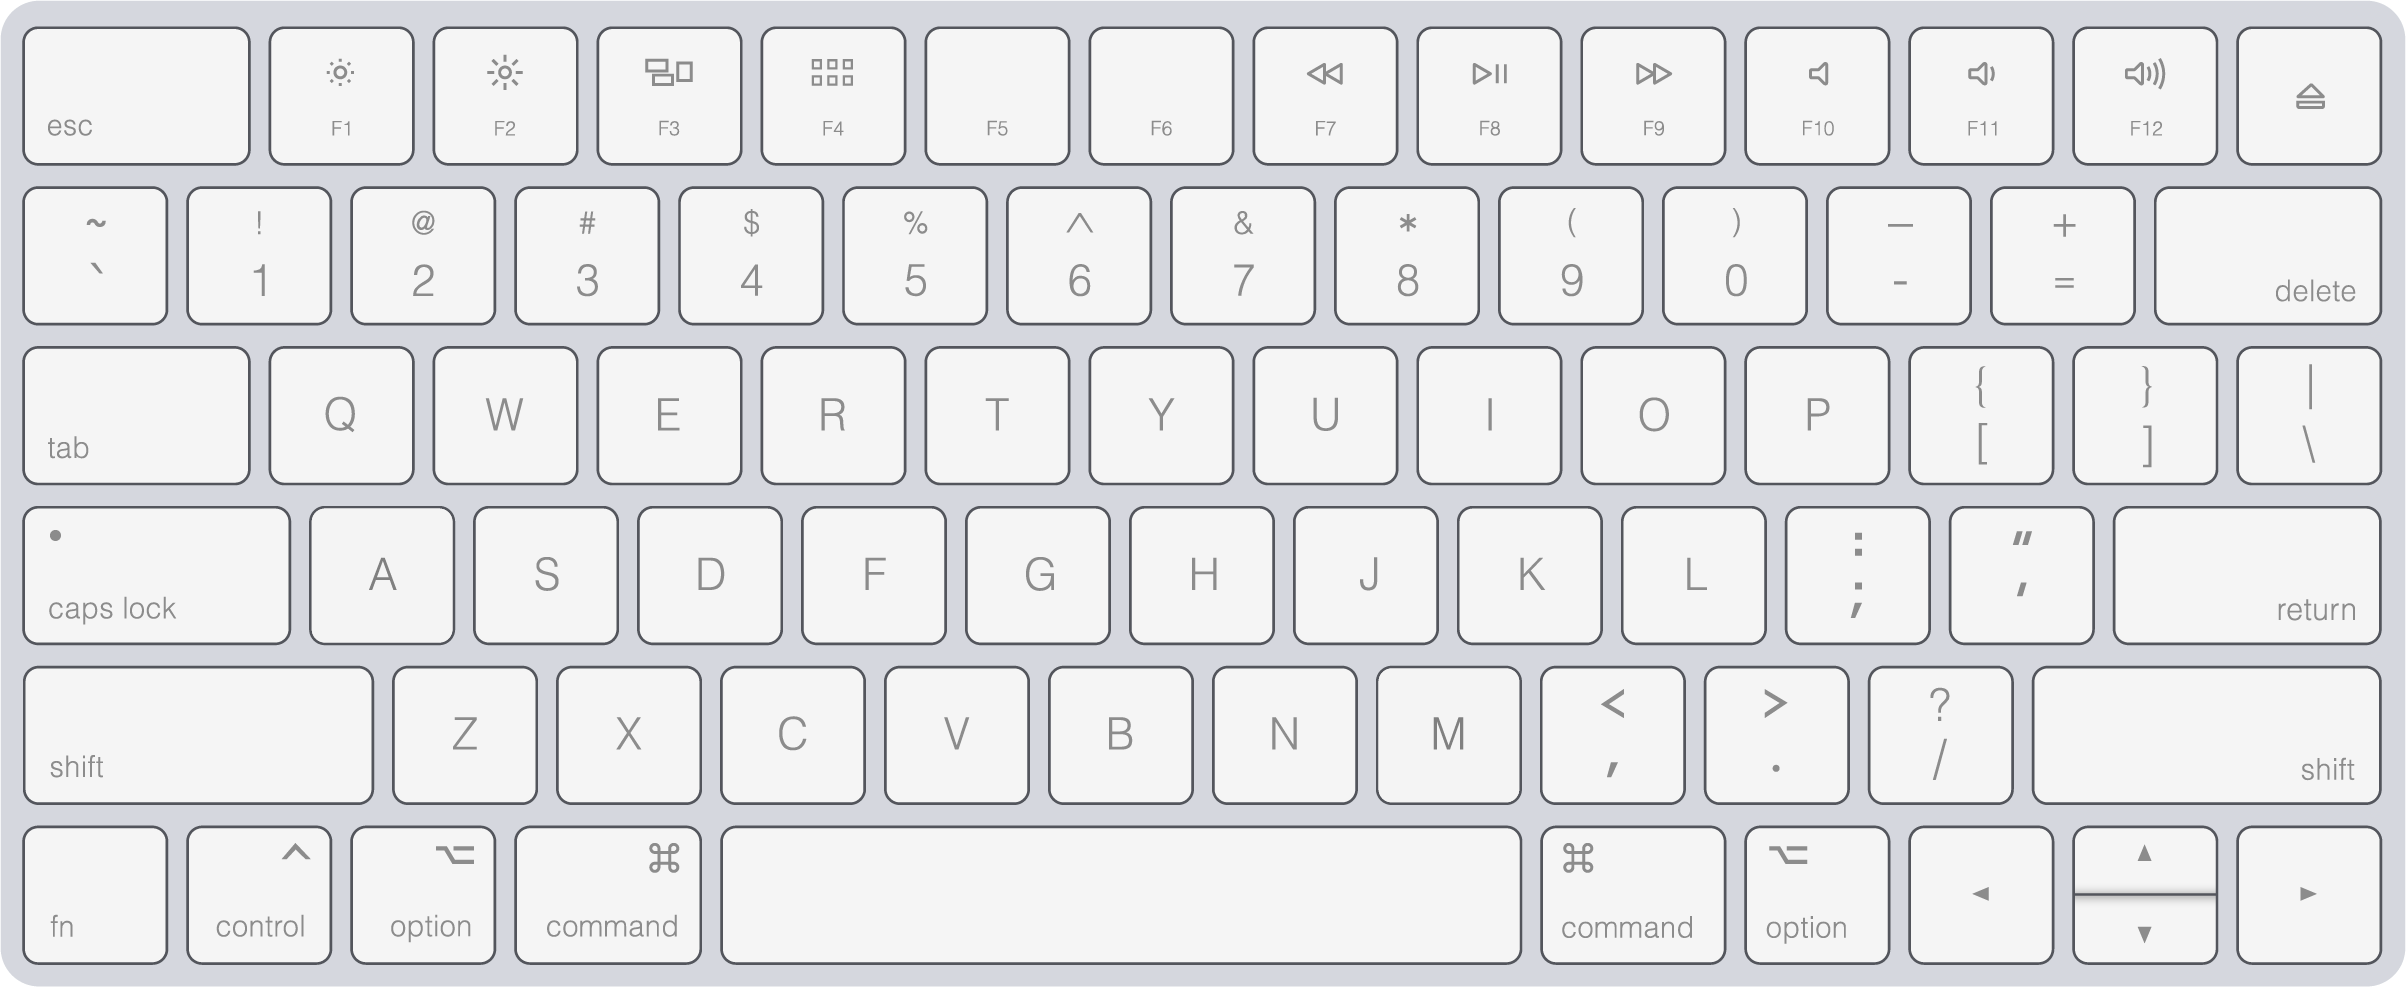
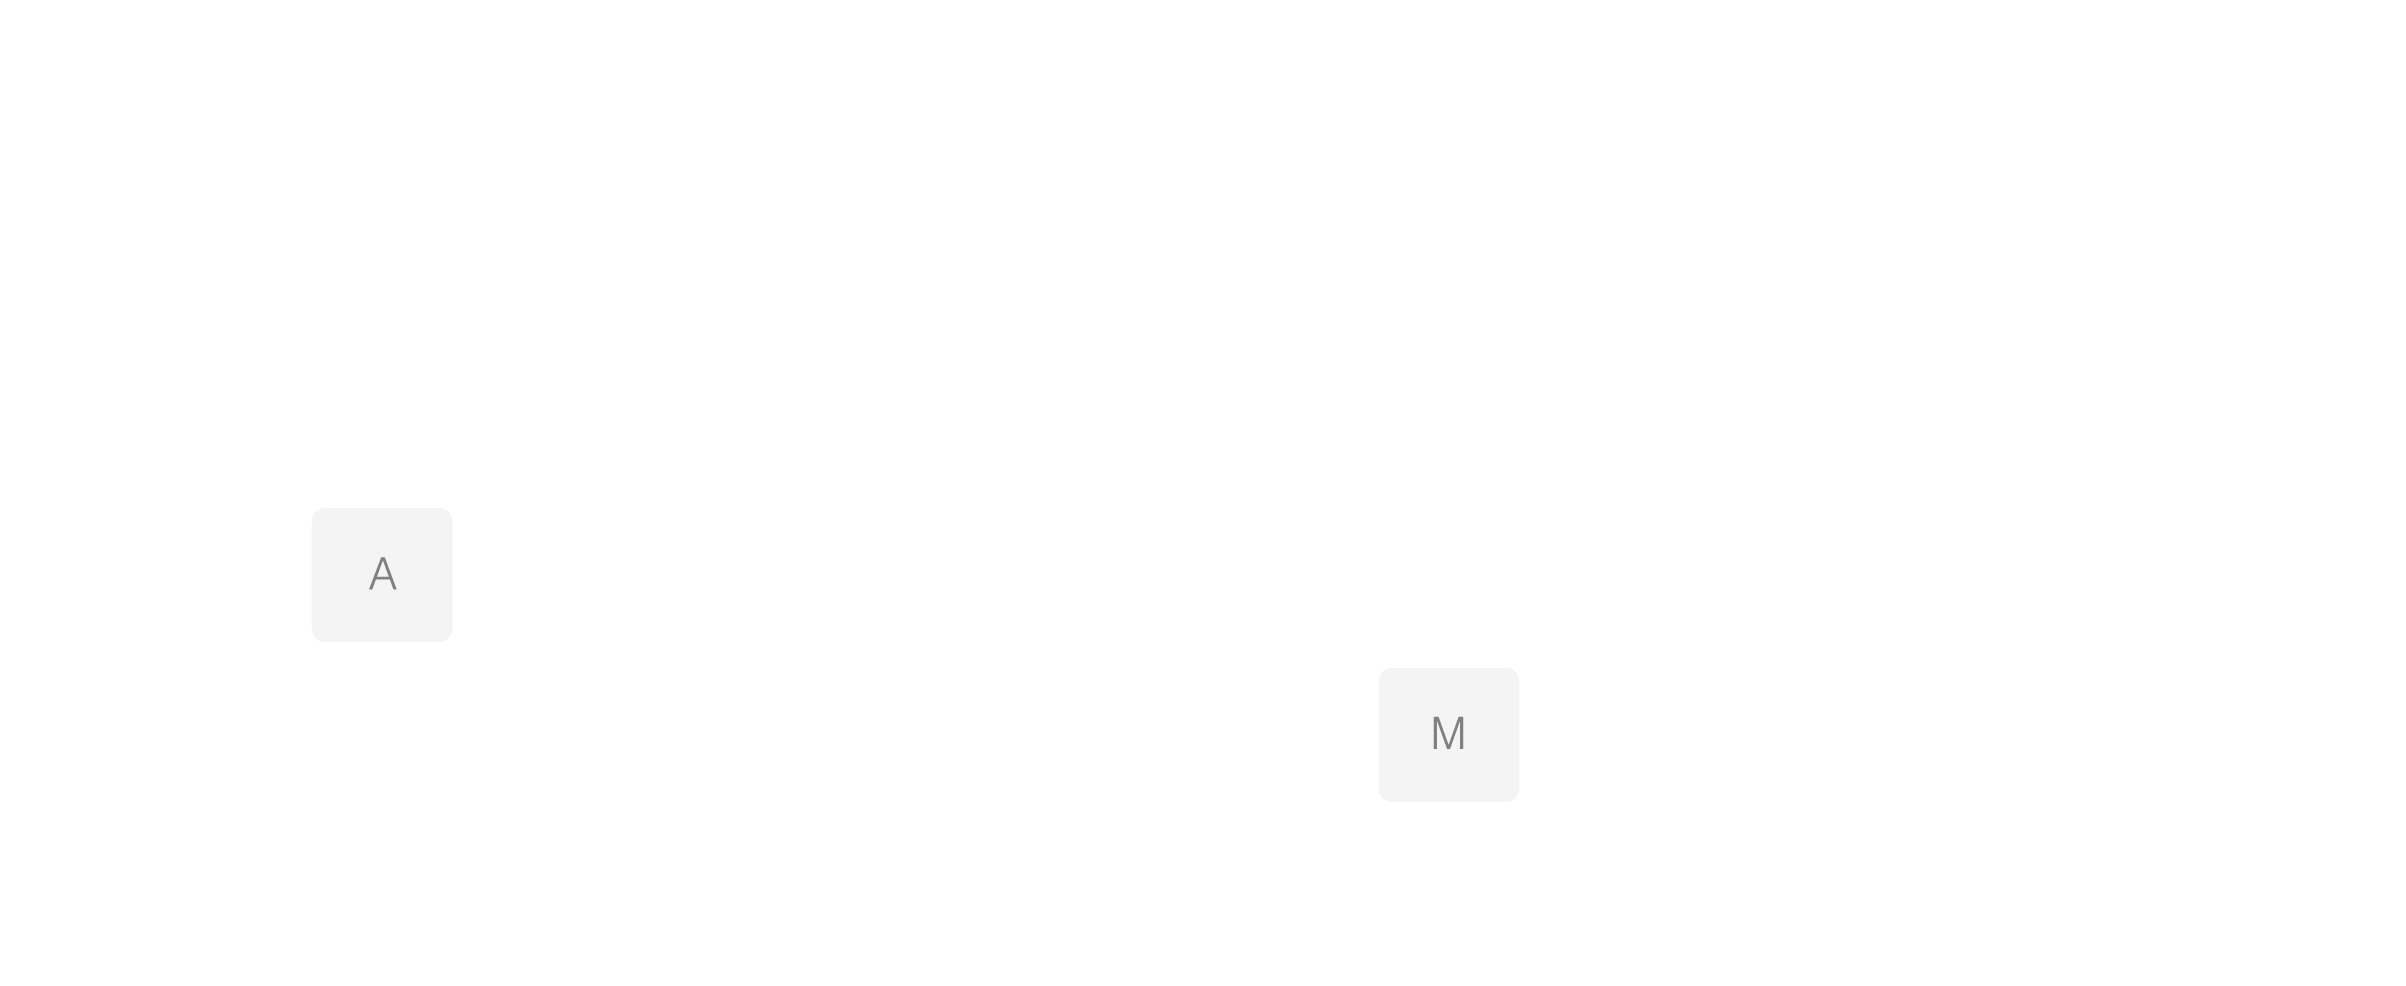
Mess around with scroll effects.

diff --git a/app/KeyboardAnimation.tsx b/app/KeyboardAnimation.tsx
@@ -1,34 +1,68 @@
 "use client";
 
-import { motion, useMotionValueEvent, useScroll } from "framer-motion";
+import { useRef, useState } from "react";
 import Image from "next/image";
-import { useState } from "react";
+import { useScrollPosition } from "@n8tb1t/use-scroll-position";
 
 export const KeyboardAnimation = () => {
-  const { scrollY } = useScroll();
+  const elementRef = useRef();
+  const [scrollProgress, setScrollProgress] = useState(0);
 
-  const [src, setSrc] = useState("/images/Keyboard-1.png");
-  const [currIndex, setCurrIndex] = useState(1);
+  useScrollPosition(
+    ({ currPos }) => {
+      if (currPos.y > 0) return;
 
-  useMotionValueEvent(scrollY, "change", (latest) => {
-    if (currIndex !== 12 && currIndex === 11 && latest > 5000) {
-      setSrc(`/images/Keyboard-12.png`);
-      setCurrIndex(12);
-      return;
-    }
-
-    const index = Math.ceil(latest / 300);
-    if (index !== 0 && index !== currIndex && index < 12) {
-      setSrc(`/images/Keyboard-${index}.png`);
-      setCurrIndex(index);
-    }
-  });
+      const progress = Math.ceil((Math.abs(currPos.y) / 5000) * 100);
+      if (progress !== scrollProgress) {
+        setScrollProgress(progress);
+      }
+    },
+    [],
+    elementRef
+  );
 
   return (
-    <div className="relative">
-    <motion.div className="fixed top-2/4 left-2/4 -translate-x-1/2 -translate-y-1/2">
-        <Image src={src} alt="keyboard" width={2405} height={987} priority />
-      </motion.div>
+    <div ref={elementRef} className="h-[5000px] mb-[500px]">
+      <div className="sticky top-20">
+        <div className="mx-12 md:mx-24 xl:mx-80 flex flex-col justify-center items-center gap-12">
+          <div className="w-full flex flex-col justify-center">
+            <div className="bg-gray-200 rounded-full h-2.5 dark:bg-gray-700">
+              <div
+                className="bg-blue-600 h-2.5 rounded-full"
+                style={{ width: `${scrollProgress}%` }}
+              />
+            </div>
+          </div>
+          <div className="w-full flex flex-col justify-center">
+            <div className="relative">
+              <Image
+                className="absolute"
+                src={"/images/keyboard-1.png"}
+                alt="keyboard"
+                width={2405}
+                height={987}
+                priority
+                style={{
+                  opacity: 1 - scrollProgress / 100,
+                }}
+              />
+              {scrollProgress < 100 && (
+                <Image
+                  className="absolute"
+                  src={"/images/keyboard-2.png"}
+                  alt="keyboard"
+                  width={2405}
+                  height={987}
+                  priority
+                  style={{
+                    opacity: scrollProgress / 100,
+                  }}
+                />
+              )}
+            </div>
+          </div>
+        </div>
+      </div>
     </div>
   );
 };

diff --git a/app/OfferingsSection.tsx b/app/OfferingsSection.tsx
@@ -1,0 +1,47 @@
+export const OfferingsSection = () => {
+  return (
+    <div className="flex flex-col h-screen justify-center">
+      <div className="flex flex-row justify-center">
+        <p className="mx-12 md:mx-24 xl:mx-80 text-slate-300 text-4xl">
+          <span>{"I build sites "}</span>
+          <span className="text-green-300 underline">{"ICON"}</span>
+          <span>{" using "}</span>
+          <a
+            href="https://www.typescriptlang.org"
+            className="text-white font-semibold"
+          >
+            {"TypeScript"}
+          </a>
+          <span>{", "}</span>
+          <a href="https://nextjs.org" className="text-white font-semibold">
+            {"Next.js"}
+          </a>
+          <span>{" and "}</span>
+          <a href="https://vercel.com" className="text-white font-semibold">
+            {"Vercel"}
+          </a>
+          <span>{". Have a big idea but "}</span>
+          <a
+            href="https://calendly.com/ashmidgley/chat"
+            className="text-yellow-300 underline"
+          >
+            {"don't know where to start?"}
+          </a>
+          <span>
+            {" Together we can coordinate with my network of highly skilled "}
+          </span>
+          <span className="text-white font-semibold">{"Graphic"}</span>
+          <span>{" and "}</span>
+          <span className="text-white font-semibold">{"UI/UX designers"}</span>
+          <span>{" to take your "}</span>
+          <span className="text-green-300 underline">{"vision"}</span>
+          <span>{" from "}</span>
+          <span className="text-white font-semibold">
+            {"idea to inception"}
+          </span>
+          <span>{"."}</span>
+        </p>
+      </div>
+    </div>
+  );
+};

diff --git a/app/OtherOfferingsSection.tsx b/app/OtherOfferingsSection.tsx
@@ -1,0 +1,16 @@
+export const OtherOfferingsSection = () => {
+  return (
+    <div className="flex flex-col h-screen justify-center">
+      <div className="flex flex-row justify-center">
+        <p className="mx-12 md:mx-24 xl:mx-80 text-slate-300 text-4xl">
+          <span>{"I also offer independant programming services. "}</span>
+          <span className="text-white font-semibold">
+            {"Need an extra pair of hands on an existing project? "}
+          </span>
+          <a href="https://calendly.com/ashmidgley/chat" className="text-yellow-300 underline">{"Let's talk"}</a>
+          <span>{"."}</span>
+        </p>
+      </div>
+    </div>
+  );
+};

diff --git a/app/layout.tsx b/app/layout.tsx
@@ -1,4 +1,10 @@
 import './globals.css'
+import { Space_Grotesk } from "@next/font/google";
+
+const spaceGrotesk = Space_Grotesk({
+  subsets: ["latin"],
+  weight: ["400", "700"],
+});
 
 export default function RootLayout({
   children,
@@ -6,7 +12,7 @@ export default function RootLayout({
   children: React.ReactNode
 }) {
   return (
-    <html lang="en">
+    <html lang="en" className={spaceGrotesk.className}>
       {/*
         <head /> will contain the components returned by the nearest parent
         head.tsx. Find out more at https://beta.nextjs.org/docs/api-reference/file-conventions/head

diff --git a/app/head.tsx b/app/head.tsx
@@ -1,10 +1,10 @@
 export default function Head() {
   return (
     <>
-      <title>Zoinks</title>
+      <title>{"AM Software"}</title>
       <meta content="width=device-width, initial-scale=1" name="viewport" />
-      <meta name="description" content="Generated by create next app" />
-      <link rel="icon" href="/images/favicon.ico" />
+      <meta name="description" content="Take your vision from idea to inception." />
+      <link rel="icon" href="/favicon.ico" />
     </>
   )
 }

diff --git a/app/page.tsx b/app/page.tsx
@@ -1,10 +1,14 @@
-import styles from './page.module.css'
+import styles from "./page.module.css";
 import { KeyboardAnimation } from "./KeyboardAnimation";
+import { OfferingsSection } from "./OfferingsSection";
+import { OtherOfferingsSection } from "./OtherOfferingsSection";
 
 export default function Home() {
   return (
     <main className={styles.main}>
+      <OfferingsSection />
       <KeyboardAnimation />
+      <OtherOfferingsSection />
     </main>
   );
 }

diff --git a/app/globals.css b/app/globals.css
@@ -1,3 +1,7 @@
 @tailwind base;
 @tailwind components;
 @tailwind utilities;
+
+body {
+    background-color: black;
+}

diff --git a/app/page.module.css b/app/page.module.css
@@ -1,4 +1,1 @@
-.main {
-  min-height: 100000px;
-  background-color: rgb(75 85 99);
-}
+.main {}
